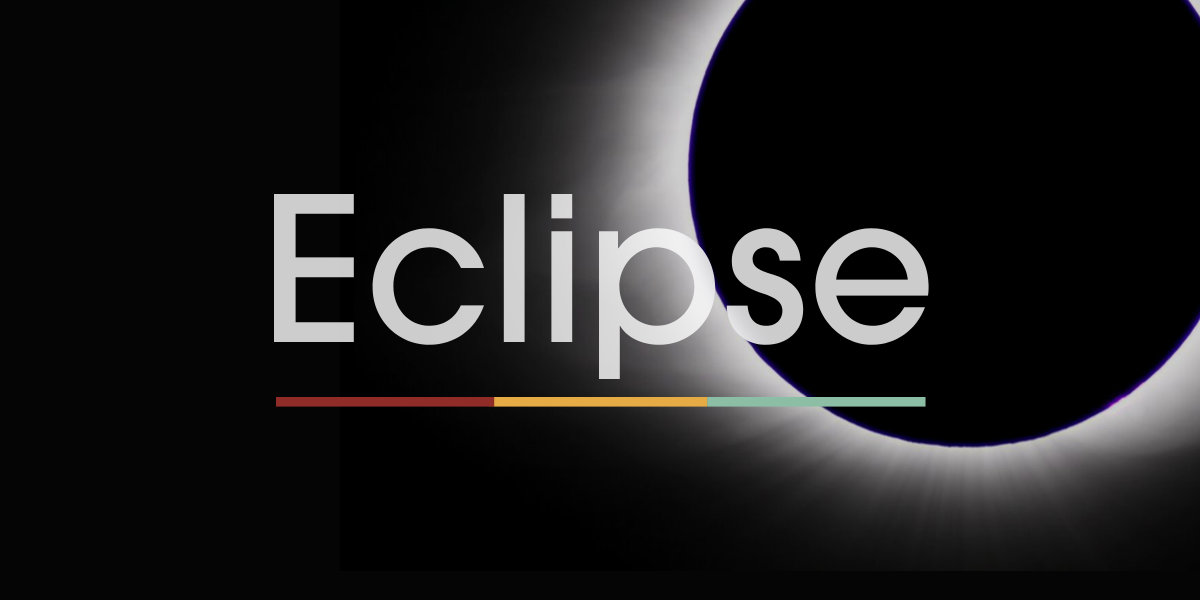
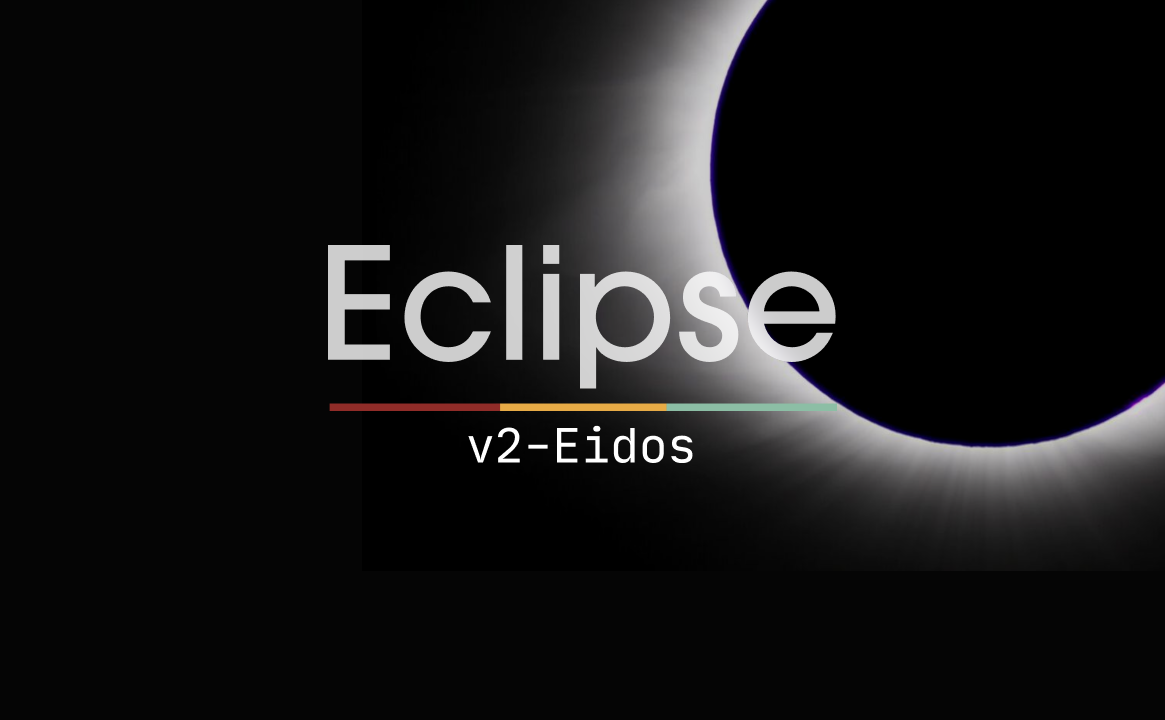
docs(blog): 更新封面尺寸并补充 2.0 计划

Changed region(s): [[0.2163, 0.0, 1.0, 0.9], [0.9888, 0.0, 1.0, 0.06]]

diff --git a/blogs/eclipse/index.md b/blogs/eclipse/index.md
@@ -123,4 +123,12 @@ Eclipse 星语不是被规划出来的庞大工具集。
 
 这是 Eclipse 星语继续往前走的方向。
 
+---
+
+## 2.0，代号 Eidos
+
+下一步是 Eclipse 星语 2.0，代号 **Eidos**。
+
+它计划实现实时生成 UX 并完成渲染：界面不再预先写死在代码里，而是根据当下的对话即时生成；生成出来的界面，你可以直接与它交互。
+
 ::resource{id=moe.mcns.Eclipse}
